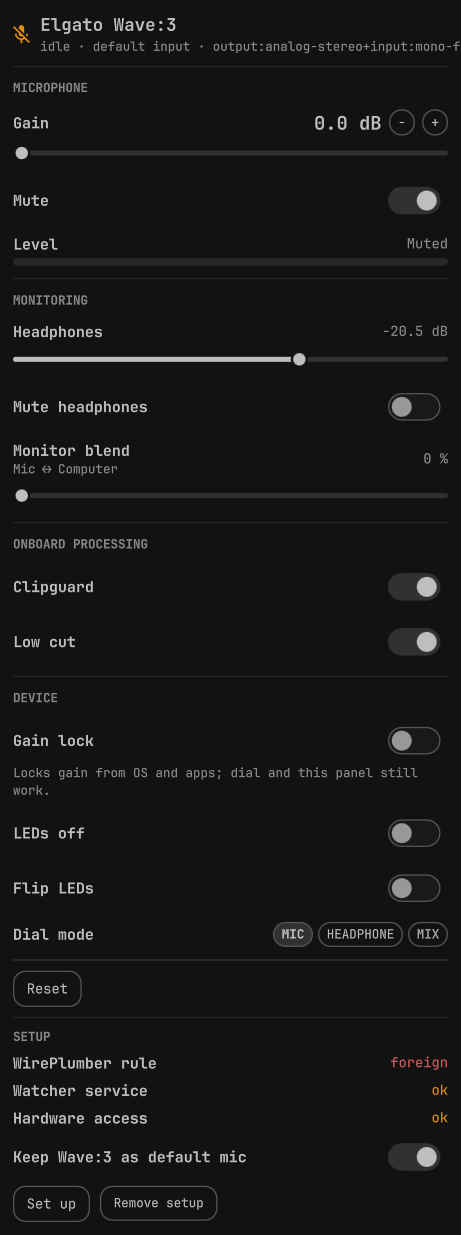
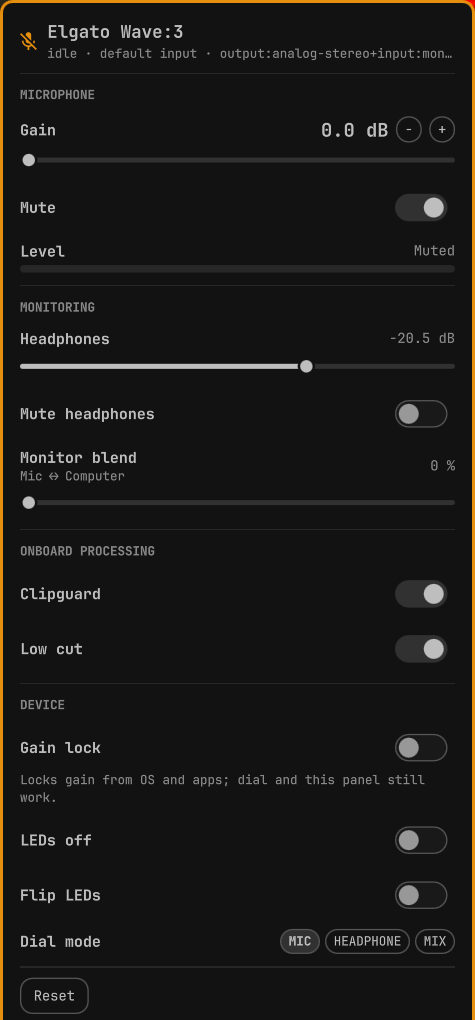
fix(wave3): release popup polling and correct setup edges
An outside click closed the popup after open was already false, so the
bar stayed in the popup registry and background polling stopped.
close() now always calls setPopupOpen(false). Setup "ok" uses the muted
colour, the header subtitle elides, and Remove setup no longer appears
for a udev-only install. keep-default updates a symlinked config in
place and deletes its temp file if the write fails. Watcher tests point
WAVE3_CONFIG at a missing file. The preview ends just below Reset.

diff --git a/tests/barpoll.test.js b/tests/barpoll.test.js
@@ -1,0 +1,71 @@
+const test = require("node:test")
+const assert = require("node:assert/strict")
+const fs = require("node:fs")
+const path = require("node:path")
+const vm = require("node:vm")
+
+// BarPoll.js is a Quickshell pragma library. Strip the two QML lines and
+// evaluate a fresh copy so each test gets its own registry.
+function loadBarPoll() {
+  const file = path.join(__dirname, "..", "BarPoll.js")
+  let src = fs.readFileSync(file, "utf8")
+  src = src.replace(/^\.pragma library\r?\n/, "")
+  src = src.replace(/^\.import\s+"Leader\.js"\s+as\s+Leader\r?\n/, "")
+  const sandbox = { Leader: require("../Leader.js") }
+  vm.createContext(sandbox)
+  vm.runInContext(src, sandbox)
+  return sandbox
+}
+
+function kinds(events, kind) {
+  return events.filter((entry) => entry[0] === kind).map((entry) => entry[1])
+}
+
+test("setPopupOpen(false) releases the slot, and a second release stays released", () => {
+  const bp = loadBarPoll()
+  const events = []
+  bp.register(1, function(kind, value) { events.push([kind, value]) })
+  bp.register(2, function() {})
+
+  assert.equal(bp.popupOpen(), false)
+  assert.equal(bp.fastPollerId(), 0)
+  assert.equal(bp.isLeader(1), true)
+
+  bp.setPopupOpen(1, true)
+  assert.equal(bp.popupOpen(), true)
+  assert.equal(bp.fastPollerId(), 1)
+
+  bp.setPopupOpen(1, false)
+  assert.equal(bp.popupOpen(), false)
+  assert.equal(bp.fastPollerId(), 0)
+
+  bp.setPopupOpen(1, false)
+  assert.equal(bp.popupOpen(), false)
+  assert.equal(bp.fastPollerId(), 0)
+  assert.equal(bp.isLeader(1), true)
+  assert.equal(bp.isLeader(2), false)
+
+  assert.deepEqual(kinds(events, "popup"), [false, true, false, false])
+  assert.deepEqual(kinds(events, "fast"), [0, 1, 0, 0])
+})
+
+test("releasing one popup twice leaves another open popup as the fast poller", () => {
+  const bp = loadBarPoll()
+  bp.register(1, function() {})
+  bp.register(2, function() {})
+  bp.setPopupOpen(1, true)
+  bp.setPopupOpen(2, true)
+  assert.equal(bp.popupOpen(), true)
+  assert.equal(bp.fastPollerId(), 1)
+
+  bp.setPopupOpen(1, false)
+  bp.setPopupOpen(1, false)
+  assert.equal(bp.popupOpen(), true)
+  assert.equal(bp.fastPollerId(), 2)
+  assert.equal(bp.isLeader(1), true)
+
+  bp.setPopupOpen(2, false)
+  bp.setPopupOpen(2, false)
+  assert.equal(bp.popupOpen(), false)
+  assert.equal(bp.fastPollerId(), 0)
+})

diff --git a/Wave3Popup.qml b/Wave3Popup.qml
@@ -308,7 +308,7 @@ PopupWindow {
     Text {
       id: stateText
       text: setupRow.mark
-      color: setupRow.mark === "ok" ? root.accent : root.urgent
+      color: setupRow.mark === "ok" ? root.safeMuted : root.urgent
       font.family: root.fontFamily
       font.pixelSize: 11
       anchors.verticalCenter: parent.verticalCenter
@@ -588,9 +588,12 @@ PopupWindow {
 
       // Header
       Row {
+        id: headerRow
+        width: parent.width
         spacing: 8
 
         Text {
+          id: headerIcon
           text: (root.status.muted || (root.hwReady && root.hwStatus.mute)) ? "" : ""
           color: root.status.present ? root.accent : root.safeMuted
           font.family: root.fontFamily
@@ -599,10 +602,13 @@ PopupWindow {
         }
 
         Column {
+          width: parent.width - headerIcon.implicitWidth - headerRow.spacing
           spacing: 1
           anchors.verticalCenter: parent.verticalCenter
 
           Text {
+            width: parent.width
+            elide: Text.ElideRight
             text: "Elgato Wave:3"
             color: root.fg
             font.family: root.fontFamily
@@ -611,6 +617,8 @@ PopupWindow {
           }
 
           Text {
+            width: parent.width
+            elide: Text.ElideRight
             text: Model.headerLine(root.status)
             color: root.status.present ? root.safeMuted : root.urgent
             font.family: root.fontFamily
@@ -1120,7 +1128,6 @@ PopupWindow {
             bordered: true
             visible: root.setupStatus.setup === "partial" || root.setupStatus.setup === "complete"
               || root.setupStatus.wireplumber === "installed" || root.setupStatus.service === "installed"
-              || root.setupStatus.udev === "installed"
             enabled: !root.setupBusy
             foreground: root.fg
             background: root.bg

diff --git a/Widget.qml b/Widget.qml
@@ -105,9 +105,9 @@ BarWidget {
   }
 
   function close() {
-    var wasOpen = popup.open
     popup.open = false
-    if (wasOpen && root.barId) BarPoll.setPopupOpen(root.barId, false)
+    // onOpenChanged calls this after open is already false, so always release.
+    if (root.barId) BarPoll.setPopupOpen(root.barId, false)
     root.meterLevel = 0
     root.meterHold = null
     root.meterText = Model.formatDb(-Infinity)

diff --git a/README.md b/README.md
@@ -121,7 +121,7 @@ Pick the Wave:3 as EasyEffects' input, then select `easyeffects_source` as the d
 omarchy plugin add https://github.com/abduldotdev/wave3 --enable
 ```
 
-The bar icon works immediately: status, left-click popup, right-click reset, and the pactl fallback when the USB control node is not readable. Nothing under your home directory is written by this plugin until you opt in below. (`omarchy plugin add` itself creates the plugin folder.)
+The bar icon works immediately: status, left-click popup, right-click reset, and the pactl fallback when the USB control node is not readable. Nothing is written under your home directory until you use a control: Set up writes the drop-in and unit, the keep-default toggle writes `~/.config/abduldotdev.wave3/config`, and hardware changes are remembered in `~/.local/state/abduldotdev.wave3/hw.json`. (`omarchy plugin add` itself creates the plugin folder.)
 
 Open the popup and use **SETUP**, or run the same steps from a terminal. The script is `~/.config/omarchy/plugins/abduldotdev.wave3/bin/wave3-setup`. It never runs sudo, never restarts PipeWire or WirePlumber, and never changes volumes or the default source.
 
